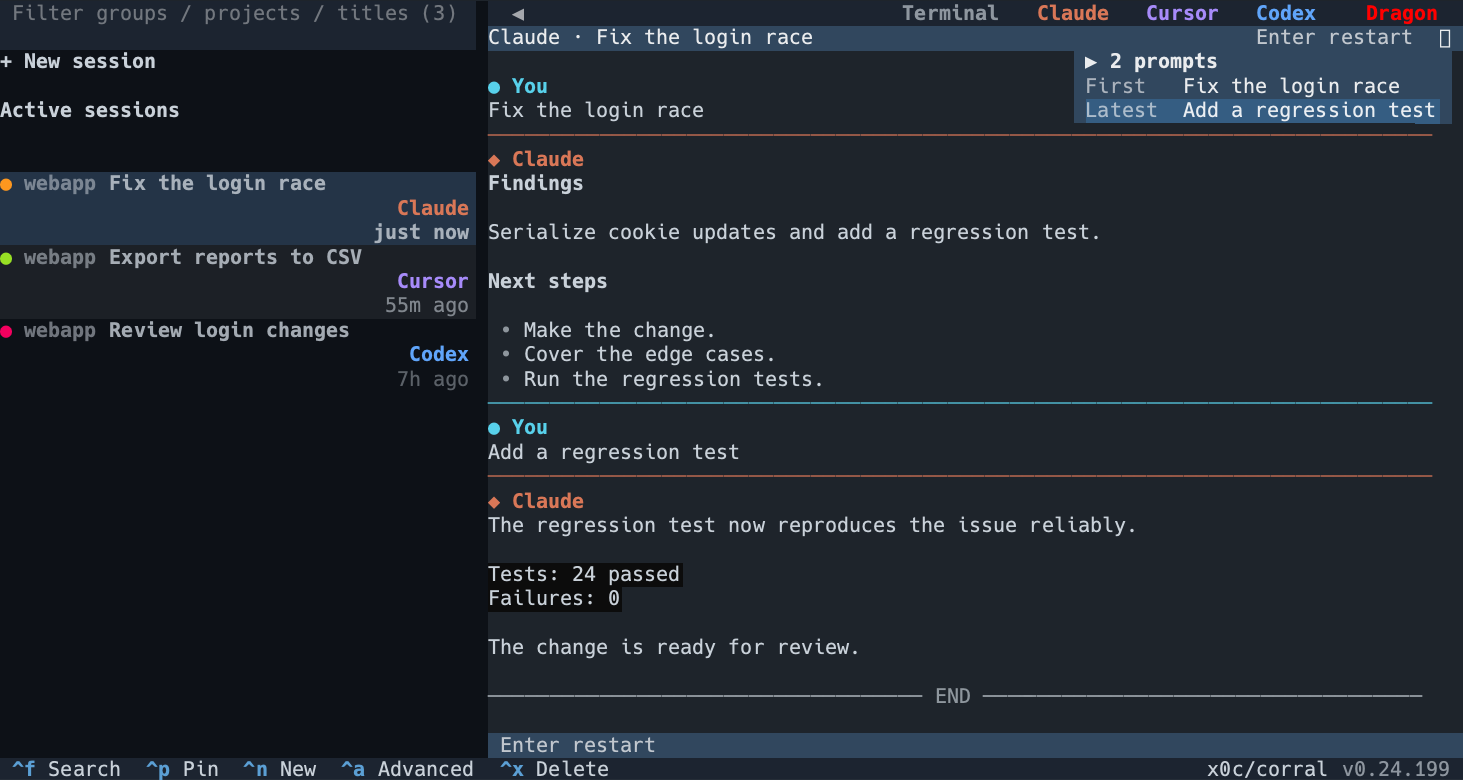
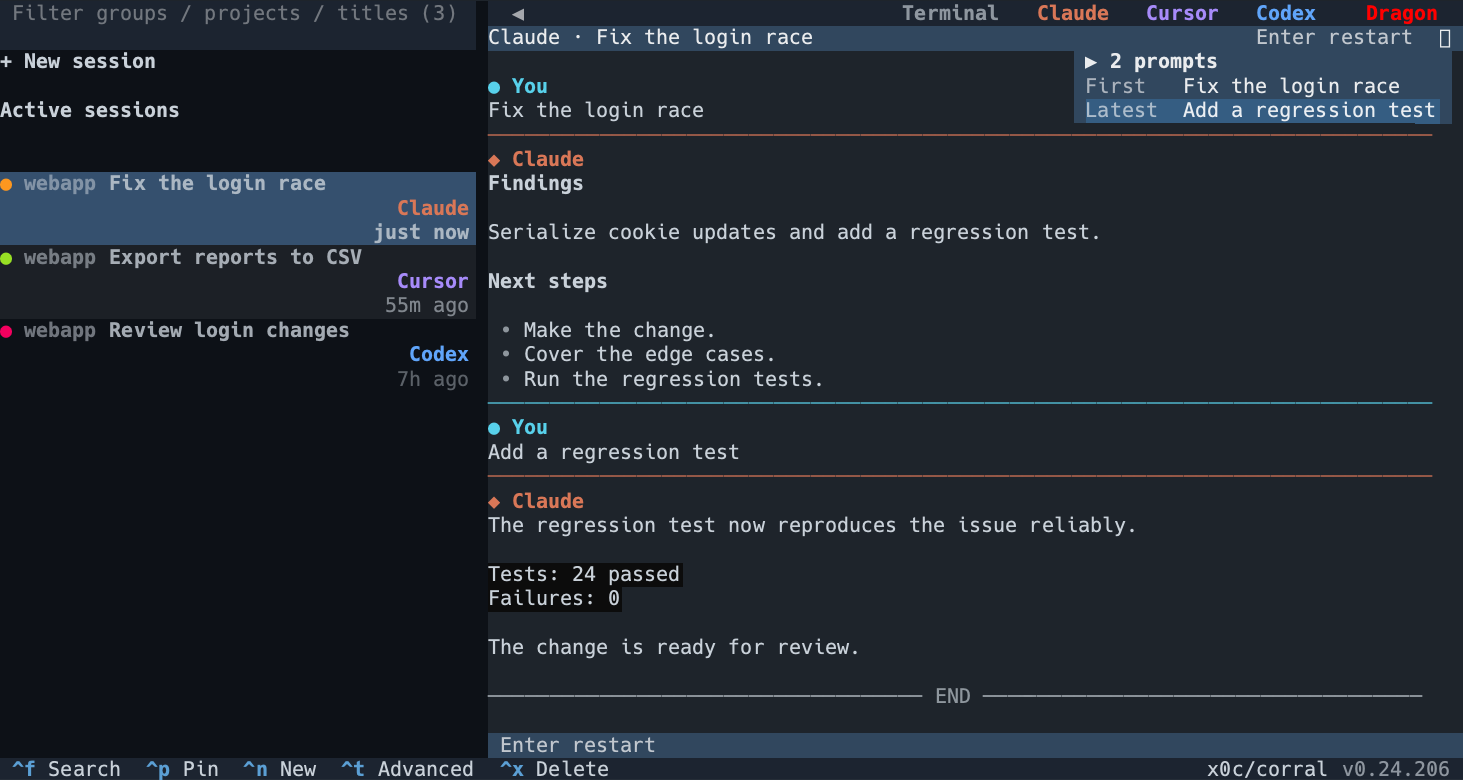
release: v0.24.206 bind advanced menu to Ctrl+T
Ctrl+A must stay beginning-of-line in hosted assistants. The advanced
menu is now Ctrl+T, shown as ^t like the other shell shortcuts.

Changed region(s): [[0.0, 0.2154, 0.3383, 0.3385], [0.9535, 0.9846, 1.0, 1.0]]

diff --git a/tests/test_ui.py b/tests/test_ui.py
@@ -925,7 +925,7 @@ class AppThemeTests(unittest.IsolatedAsyncioTestCase):
             self.assertFalse(area.can_add_pane())
 
     async def test_footer_binds_ctrl_n_not_bare_n_for_new_session(self) -> None:
-        """新建走全局 Ctrl+N；单字母 n/a/x/q 不绑。Ctrl+A/X 是全局高级操作/删除。"""
+        """新建走全局 Ctrl+N；单字母 n/a/x/q 不绑。Ctrl+T/X 是全局高级操作/删除。"""
         store, _ = _make_store()
         app = CorralApp(store, embed_ok=False)
         async with app.run_test(size=(100, 30)) as pilot:
@@ -936,7 +936,8 @@ class AppThemeTests(unittest.IsolatedAsyncioTestCase):
             self.assertNotIn("x", keys)
             self.assertNotIn("q", keys)
             self.assertIn("ctrl+n", keys)
-            self.assertIn("ctrl+a", keys)
+            self.assertIn("ctrl+t", keys)
+            self.assertNotIn("ctrl+a", keys)
             self.assertIn("ctrl+x", keys)
             actions = {b.action for b in app.screen.BINDINGS}
             self.assertIn("new_session", actions)
@@ -5689,7 +5690,7 @@ class MainScreenHostWorkerTests(unittest.IsolatedAsyncioTestCase):
                 self.assertIsNotNone(source)
                 source_key = corral.session_key(source)
 
-                await pilot.press("ctrl+a")
+                await pilot.press("ctrl+t")
                 await pilot.pause()
                 self.assertIsInstance(app.screen, RuntimePickerModal)
                 await pilot.press("down")  # claude 原生恢复 → cursor
@@ -5767,7 +5768,7 @@ class MainScreenHostWorkerTests(unittest.IsolatedAsyncioTestCase):
                 source_key = corral.session_key(source)
                 main = app.screen
                 with mock.patch.object(main, "notify") as notify:
-                    await pilot.press("ctrl+a")
+                    await pilot.press("ctrl+t")
                     await pilot.pause()
                     self.assertIsInstance(app.screen, RuntimePickerModal)
                     await pilot.press("down")
@@ -5839,7 +5840,7 @@ class MainScreenHostWorkerTests(unittest.IsolatedAsyncioTestCase):
                 self.assertIsNotNone(source)
                 source_key = corral.session_key(source)
 
-                await pilot.press("ctrl+a")
+                await pilot.press("ctrl+t")
                 await pilot.pause()
                 self.assertIsInstance(app.screen, RuntimePickerModal)
                 # 本用例只有 claude，默认即源助手；回车 = 同助手读历史后新建
@@ -5899,7 +5900,7 @@ class MainScreenHostWorkerTests(unittest.IsolatedAsyncioTestCase):
                 self.assertIsNotNone(source)
                 source_key = corral.session_key(source)
 
-                await pilot.press("ctrl+a")
+                await pilot.press("ctrl+t")
                 await pilot.pause()
                 self.assertIsInstance(app.screen, RuntimePickerModal)
                 # 默认高亮在接力项；上移两次落到「复制会话」（上面依次是重启、导出）
@@ -5939,7 +5940,7 @@ class MainScreenHostWorkerTests(unittest.IsolatedAsyncioTestCase):
         app = CorralApp(store, embed_ok=True)
         async with app.run_test(size=(120, 30)) as pilot:
             await pilot.pause(delay=0.2)
-            await pilot.press("ctrl+a")
+            await pilot.press("ctrl+t")
             await pilot.pause()
             self.assertIsInstance(app.screen, RuntimePickerModal)
             self.assertEqual(app.screen._choices[0].id, EXPORT_SESSION_CHOICE)
@@ -5988,7 +5989,7 @@ class MainScreenHostWorkerTests(unittest.IsolatedAsyncioTestCase):
                 store.mark_hosted(source_key, "corral-claude-s0")
                 await pilot.pause()
 
-                await pilot.press("ctrl+a")
+                await pilot.press("ctrl+t")
                 await pilot.pause()
                 self.assertIsInstance(app.screen, RuntimePickerModal)
                 choices = app.screen._choices
@@ -6020,7 +6021,7 @@ class MainScreenHostWorkerTests(unittest.IsolatedAsyncioTestCase):
         with mock.patch("corral.embed.host_session") as host_mock:
             async with app.run_test(size=(120, 30)) as pilot:
                 await pilot.pause(delay=0.2)
-                await pilot.press("ctrl+a")
+                await pilot.press("ctrl+t")
                 await pilot.pause()
                 self.assertIsInstance(app.screen, RuntimePickerModal)
                 choices = app.screen._choices
@@ -6089,7 +6090,7 @@ class FooterActionGatingTests(unittest.TestCase):
         # 无回列表快捷键；方法仍在，焦点已在右栏时 check 为 True 但无 binding
         self.assertTrue(screen.check_action("focus_list", ()))
         self.assertTrue(screen.check_action("toggle_sidebar", ()))
-        # Ctrl+F/P/N/A/X 全局：右栏持焦时仍可用
+        # Ctrl+F/P/N/T/X 全局：右栏持焦时仍可用
         self.assertTrue(screen.check_action("toggle_pin", ()))
         self.assertTrue(screen.check_action("search_content", ()))
         self.assertTrue(screen.check_action("new_session", ()))
@@ -7718,7 +7719,7 @@ class RestartEndedSessionTests(unittest.IsolatedAsyncioTestCase):
                 )
 
     async def test_live_pane_forwards_enter_but_ctrl_f_opens_search(self) -> None:
-        """回车照常发给助手，但 Ctrl+F 必须由 corral 打开全文搜索，Ctrl+N 打开新建。"""
+        """回车和 Ctrl+A 发给助手；Ctrl+F / Ctrl+N / Ctrl+T 由 corral 拦截。"""
         store, registry = _make_store()
         registry.build_launch_plan = lambda request: LaunchPlan(("claude",), None)
         app = CorralApp(store, embed_ok=True)
@@ -7753,6 +7754,13 @@ class RestartEndedSessionTests(unittest.IsolatedAsyncioTestCase):
 
                 with mock.patch("corral.embed.send_key") as send_key:
                     await pilot.press("ctrl+a")
+                    await pilot.pause()
+                    self.assertTrue(send_key.called)
+                    send_key.assert_called_with("corral-claude-s0", "C-a")
+                    self.assertNotIsInstance(app.screen, RuntimePickerModal)
+
+                with mock.patch("corral.embed.send_key") as send_key:
+                    await pilot.press("ctrl+t")
                     await _wait_until(lambda: isinstance(app.screen, RuntimePickerModal))
                     self.assertFalse(send_key.called)
                     await pilot.press("escape")
@@ -7974,7 +7982,7 @@ class RightPanePreviewTests(unittest.IsolatedAsyncioTestCase):
         async with app.run_test(size=(100, 30)) as pilot:
             await pilot.pause(delay=0.2)
             await pilot.press("down")
-            await pilot.press("ctrl+a")
+            await pilot.press("ctrl+t")
             await _wait_until(lambda: isinstance(app.screen, RuntimePickerModal))
             await pilot.press("down")  # claude(原生恢复) -> codex
             await pilot.press("enter")
@@ -8399,7 +8407,7 @@ class ModalTests(unittest.IsolatedAsyncioTestCase):
         async with app.run_test(size=(100, 30)) as pilot:
             await pilot.pause(delay=0.2)
             await pilot.press("down")
-            await pilot.press("ctrl+a")
+            await pilot.press("ctrl+t")
             await pilot.pause()
             self.assertIsInstance(app.screen, RuntimePickerModal)
             await pilot.press("down")  # 移到未安装的 kimi

diff --git a/src/corral/ui/main_screen.py b/src/corral/ui/main_screen.py
@@ -1,6 +1,6 @@
 """主屏：左栏会话列表 + 右栏预览/内嵌终端（corral 唯一界面）。
 
-按键语义（/ 聚焦项目搜索 / a 或 Ctrl+A 高级操作 /
+按键语义（/ 聚焦项目搜索 / Ctrl+T 高级操作 /
 q 结束会话 / x 删除会话 / c 关闭面板 / Ctrl+Shift+B 显隐侧栏 / Esc 退出）；选中非进行中会话时右栏直接
 展示完整对话预览。键盘焦点跟随明确意图：回车 / 单击会话卡打开、新建或直启托管成功后
 输入交给右栏那一格（仅限活着的实时会话），上下浏览不抢焦点；再点当前持有输入的那张
@@ -224,14 +224,17 @@ _LIST_ONLY_ACTIONS = frozenset(
 def _main_bindings() -> list[Binding]:
     """按当前语言生成底部快捷键说明。"""
     return [
-        # Ctrl+F / Ctrl+P / Ctrl+N / Ctrl+A / Ctrl+X 是壳层全局键。priority 让它们
+        # Ctrl+F / Ctrl+P / Ctrl+N / Ctrl+T / Ctrl+X 是壳层全局键。priority 让它们
         # 先于当前聚焦控件处理，运行中助手不能再截走；临时弹窗不继承主屏绑定。
+        # 不绑 Ctrl+A：那是行首，必须透传给助手。不绑 Ctrl+O：Claude 详细记录 /
+        # Codex 复制回复 / OpenCode 选模型。不绑 Ctrl+]：机主否决「不好记」，
+        # 只要 Ctrl+字母。Ctrl+T 会挡住 Claude 待办清单，是 2026-09-13 选定的代价。
         # 不绑单字母 a/x/q/c：右栏持焦时会变成打给助手的字符。结束托管走高级操作。
         # Esc 只关弹窗，不退出应用。侧栏显隐只点顶栏 ◀/▶（无回列表快捷键）。
         Binding("ctrl+f", "search_content", t("action.search"), priority=True),
         Binding("ctrl+p", "toggle_pin", t("action.toggle_pin"), priority=True),
         Binding("ctrl+n", "new_session", t("action.new"), priority=True),
-        Binding("ctrl+a", "advanced", t("action.advanced"), priority=True),
+        Binding("ctrl+t", "advanced", t("action.advanced"), priority=True),
         Binding("ctrl+x", "delete_session", t("action.delete_session"), priority=True),
         # 会话小窗展开/收起。Footer 已经很挤，这个键不展示；小窗自身可点。
         Binding("ctrl+g", "toggle_hud", t("action.toggle_hud"), show=False),
@@ -1490,7 +1493,7 @@ class MainScreen(
             if getattr(self, "_activity_board_active", False):
                 return False
         if action in ("advanced", "delete_session"):
-            # Ctrl+A / Ctrl+X：列表持焦，或右栏正对着某个会话。筛选框里让路给输入。
+            # Ctrl+T / Ctrl+X：列表持焦，或右栏正对着某个会话。筛选框里让路给输入。
             if isinstance(self.focused, Input):
                 return False
             if self._any_embed_focused():
@@ -1793,7 +1796,7 @@ class MainScreen(
 
     @work
     async def action_advanced(self) -> None:
-        """Ctrl+A 全局高级操作：列表或右栏关联会话时打开，与 `a` 同一条流程。"""
+        """Ctrl+T 全局高级操作：列表或右栏关联会话时打开。"""
         await self._run_handoff()
 
     @work

diff --git a/tests/test_embed.py b/tests/test_embed.py
@@ -894,6 +894,7 @@ class TranslateTextualKeyTests(unittest.TestCase):
         self.assertEqual(embed.translate_textual_key("ctrl+c"), ("keys", "C-c"))
         self.assertEqual(embed.translate_textual_key("ctrl+z"), ("keys", "C-z"))
         self.assertEqual(embed.translate_textual_key("ctrl+a"), ("keys", "C-a"))
+        self.assertEqual(embed.translate_textual_key("ctrl+t"), ("keys", "C-t"))
 
     def test_control_underscore_and_slash_aliases(self):
         # 多数终端 Ctrl+/ ≡ Ctrl+_（ASCII 0x1F）；tmux 不认 C-/，统一成 C-_。

diff --git a/src/corral/__init__.py b/src/corral/__init__.py
@@ -31,7 +31,7 @@ def _wire_sesskit_cache() -> None:
 
 _wire_sesskit_cache()
 
-__version__ = "0.24.205"
+__version__ = "0.24.206"
 
 _MODULE_EXPORTS = {
     "embed", "keepalive", "liveness", "titles", "updater", "split_layout", "observe", "theme", "search",

diff --git a/docs/TERMINAL_UI_KNOWLEDGE_BASE.md b/docs/TERMINAL_UI_KNOWLEDGE_BASE.md
@@ -35,7 +35,7 @@ corral 的价值是让用户从一个终端界面中继续或接力不同 Coding
 | 会话小窗 | 右栏格右上角的悬浮摘要：默认展开列出提问，收起后给"最初 + 最近"两头 | `ui/session_hud.py` 的 `SessionHud`；实时托管格与静态预览格各自一份；不是弹窗、不抢焦点 |
 | 新建会话 | 以选定项目和运行时创建空白会话 | 侧边栏“＋ 新建会话”完整选择流程，或任意焦点按 `Ctrl+N`（与 `Ctrl+F` / `Ctrl+P` 同级的全局键），或右栏顶栏点助手加格；打开弹窗时光标必须在项目筛选框，立刻可打字；单字母 `n` 不绑 |
 | 活跃会话看板 | 侧栏固定入口，对外文案是 Active sessions / 活跃会话；有成员时写成「名称 · N 个会话」。入口固定三行（高 3）：首行名称与可选黄点；第二行多于一页时画出可点的「上一页 / 下一页」（中间 `1/2` 只提示位置），循环翻页；第三行留白。只有一页时第二行也留空（禁止 1/1）。底栏在列表持焦时展示 `[` 上一页 / `]` 下一页（循环故两侧都露）。**Active sessions 的成员定义是权威口径**（2026-09-06 纠正）：本窗口托管且（等回话 / 干活 / 未读，或「刚刚」3 分钟内仍有真实活动的无信号会话）。侧栏关注圆点必须覆盖同一集合，共用 `activity_board.resolve_active_marker`——**禁止**为了对齐去砍掉看板的「刚刚」档。格子里可直接打字；观看期间成员不主动撤，只要仍被托管就钉在原格 | `activity_board.py` + 侧栏冻项；跨项目；不写水果组；超额用第二行「上一页 / 下一页」和 `[` / `]` 翻页，**禁止**依赖 Page Up / Page Down（Mac 笔记本没有这两个键，终端里 Fn+方向键常被终端滚动吃掉，且已用于右栏对话预览）；页外等待用黄点；点具体会话即离开；别的窗口自开会话不进格。**排查「Active sessions 人数和带圆点会话对不上 / 活跃会话比圆点多 / 圆点有遗漏」「蓝色圆点是啥 / 青色圆点 / 不要蓝点 / 刚还在用却是蓝点」也读本节与 §6——缺圆点时补圆点，禁止反过来缩减 Active；「刚刚」档画绿点，禁止单独画青/蓝」**。**排查「活跃会话看不到翻页 / 没有分页按钮 / Mac 没有 PageUp PageDown / 不知道怎么翻页」也读本节与 §6**。**排查「两格分屏但每格画面只占一半 / 像被压成 1/4 / 分屏里 Claude 只占约 1/3、右侧大块空白」**：较窄观看方（含本看板、控制通道默认 80 列）不得压窄共享画面，见 [内嵌实时终端知识库](EMBEDDED_TERMINAL_KNOWLEDGE_BASE.md) §6 多开窗口条 |
-| 高级操作 | 导出会话 / 复制会话 / 重启会话（结束卡住的托管进程后原地恢复）/ 对当前会话读历史后新建（含同助手另起）；原生恢复走回车 | `Ctrl+A`（全局，与 `Ctrl+F` / `Ctrl+P` / `Ctrl+N` / `Ctrl+X` 同级）→ `choose_target_runtime()` |
+| 高级操作 | 导出会话 / 复制会话 / 重启会话（结束卡住的托管进程后原地恢复）/ 对当前会话读历史后新建（含同助手另起）；原生恢复走回车 | `Ctrl+T`（全局，与 `Ctrl+F` / `Ctrl+P` / `Ctrl+N` / `Ctrl+X` 同级）→ `choose_target_runtime()` |
 | 删除会话 | 彻底抹掉当前会话窗口对应会话的本地历史，不可恢复；运行中/托管会话先结束再删 | `Ctrl+X`（全局）→ `ConfirmModal(confirm_key="x")` → `action_delete_session()`；无右栏时侧栏高亮在组卡上则删整组 |
 | 对话预览 | 右栏展示非进行中会话的完整对话 | 不是旧的“最近提问 / 最近回复”摘要，也不是 Space 全屏页 |
 | 会话关注状态 | 左栏首行最左用单个圆点提示下一步是否需要用户关注 | 等待回答黄 > 执行中绿 > 未读新结果红 > 无；本窗口托管且「刚刚」仍有活动、无待办信号的会话也画绿点（2026-09-12：禁止第四种青/蓝点）。详情头同步写出状态，不只靠颜色；不等于标题模块或机器接口的业务状态标签。**圆点必须跟上 Active sessions**（2026-09-06 纠正；此前误砍看板「刚刚」档已废止）：凡计入 Active 的托管会话都要有圆点，共用 `resolve_active_marker`；缺的是圆点，不是 Active 多算了 |
@@ -132,7 +132,7 @@ printf '\033]22;\007'          # 复位到终端默认
    - 有托管名称的会话进入内嵌实时终端；
    - 其他会话先显示详情头，再后台暖加载完整对话，完成后无缝刷新；
    - 选中“＋ 新建会话”时显示新建提示。
-5. 用户回车恢复、侧边栏/顶栏新建或 `Ctrl+A` 高级操作。能内嵌时，启动托管工作放到后台 worker，避免 tmux 阻塞冻结界面；无法内嵌时，应用退出并由外层执行启动计划。**高级操作一律读历史后新建**（含同助手另起），默认从被接力会话旁加一格分屏，不整屏换成新会话；预览格上回车才是同助手原生恢复。有右栏时键盘焦点只在某个会话窗口（见 §6 焦点归属）：单击会话卡打开并把输入交给那一格，**再点同一张卡也不得把焦点撤回列表**。多分屏下聚焦某一格时，`PaneCell` → `SplitPaneArea._handle_pane_focused` → `MainScreen._on_pane_focused` 会把侧边栏高亮切到对应会话（`SessionListView.select_session_key`），不 remount 右栏。
+5. 用户回车恢复、侧边栏/顶栏新建或 `Ctrl+T` 高级操作。能内嵌时，启动托管工作放到后台 worker，避免 tmux 阻塞冻结界面；无法内嵌时，应用退出并由外层执行启动计划。**高级操作一律读历史后新建**（含同助手另起），默认从被接力会话旁加一格分屏，不整屏换成新会话；预览格上回车才是同助手原生恢复。有右栏时键盘焦点只在某个会话窗口（见 §6 焦点归属）：单击会话卡打开并把输入交给那一格，**再点同一张卡也不得把焦点撤回列表**。多分屏下聚焦某一格时，`PaneCell` → `SplitPaneArea._handle_pane_focused` → `MainScreen._on_pane_focused` 会把侧边栏高亮切到对应会话（`SessionListView.select_session_key`），不 remount 右栏。
 6. 会话刷新发生变化时，界面原地更新内容；集合或顺序变化时才重建列表。标题缓存变化单独触发轻量刷新。
 
 ### 右栏展示状态
@@ -207,8 +207,8 @@ stateDiagram-v2
 | 右栏顶栏点助手 | 当前项目目录已知且未满四格 | `_on_runtime_pick` 在当前项目下加一格托管 | 新格进入分屏组合 |
 | 右栏顶栏点「终端」 | 当前项目目录已知且未满四格 | `_on_shell_pick` → `_embed_open_shell` 加一格交互式 shell | 不进侧栏列表；关格或 shell 退出即结束 tmux 会话 |
 | 分屏格 ✕ 关格 | 右栏至少有一格，且**不是**活跃会话看板 | `_PaneClose` → `SplitPaneArea._close_spec` | 该格退出当前分屏（托管会话继续在后台跑，可再打开）；右栏留在剩余格，不得切到刚被关掉的那条会话；不绑单字母 `c`。活跃会话看板右栏只被动展示，不提供 ✕ / 关格快捷键 |
-| `Ctrl+A` | 右栏正对着某个会话（筛选框持焦时让路） | 弹窗：导出会话 / 复制会话 / 重启卡住的托管 / 对各运行时读历史后新建 | 与 `Ctrl+F` / `Ctrl+P` / `Ctrl+N` / `Ctrl+X` 同级的全局键；不绑单字母 `a` |
-| `Ctrl+X` | 右栏正对着某个会话（筛选框持焦时让路） | 确认弹窗（确认键为 `x`）确认的瞬间摘卡；结束托管进程与抹磁盘在后台完成 | 与 `Ctrl+A` 同级的全局键；不绑单字母 `x`。无右栏且侧栏高亮在组卡上时删整组 |
+| `Ctrl+T` | 右栏正对着某个会话（筛选框持焦时让路） | 弹窗：导出会话 / 复制会话 / 重启卡住的托管 / 对各运行时读历史后新建 | 与 `Ctrl+F` / `Ctrl+P` / `Ctrl+N` / `Ctrl+X` 同级的全局键；不绑单字母 `a`。**不要绑回 `Ctrl+A`**：那是行首，必须透传给助手 |
+| `Ctrl+X` | 右栏正对着某个会话（筛选框持焦时让路） | 确认弹窗（确认键为 `x`）确认的瞬间摘卡；结束托管进程与抹磁盘在后台完成 | 与 `Ctrl+T` 同级的全局键；不绑单字母 `x`。无右栏且侧栏高亮在组卡上时删整组 |
 | `Ctrl+P` | 任意主界面焦点（含右栏实时格） | 置顶当前窗口或其所在会话组 | 框架命令面板已关闭，不再占用此键 |
 | `Ctrl+N` | 任意主界面焦点（含右栏实时格） | 打开新建会话双栏弹窗 | 与侧栏「＋ 新建」同一条流程；单字母 `n` 仍不绑 |
 | 再次点击当前持有输入的会话卡 | 右栏那一格正持有输入 | **焦点留在该会话窗口**，不撤回侧边栏 | 2026-09-12：列表不再持焦，点击不是开关 |
@@ -290,14 +290,14 @@ stateDiagram-v2
 | Textual 定时器 | 红点已读确认 | 主屏就绪轮询（约 0.1 秒） | 右侧内容一就绪即清；分屏下所有可见格一起观察；选择变化、预览失败或应用失焦时取消 |
 | Textual 后台 worker | Cursor 观察器自检 | 主屏挂载后的后台安装 | 幂等补齐用户级观察条目；任何失败都不得延迟首屏或阻断 Cursor/TUI |
 | Textual 定时器 | 终端背景复查 | `CorralApp._query_runtime_theme()`，2 秒 | iTerm2 等无主动通知的终端运行中换色时，无阻塞查询 OSC 11；支持 DEC 2031 的终端也可主动通知 |
-| 按键绑定 | 主操作 | `MainScreen.BINDINGS`、`_main_bindings()` | 全局：`Ctrl+F` 搜索、`Ctrl+P` 置顶、`Ctrl+N` 新建、`Ctrl+A` 高级操作（均 `priority=True`）；列表侧 `a`/`q`/`x`；`c` 关格、`Ctrl+\` 回列表不上 Footer。**不绑侧栏显隐**（只点顶栏 ◀/▶，2026-09-12）。`Ctrl+G` 小窗、F12 截图不上 Footer |
-| 快捷键随焦点裁剪 | Footer 与按键派发 | `MainScreen.check_action()`、`_LIST_ONLY_ACTIONS` | 有右栏时列表不再持焦，列表侧单键不再是产品路径。`Ctrl+F` / `Ctrl+P` / `Ctrl+N` / `Ctrl+A` / `Ctrl+X` 是高优先级全局键；筛选框持焦时 `Ctrl+A` / `Ctrl+X` 让路。翻页键在实时格持焦时透传给助手 |
+| 按键绑定 | 主操作 | `MainScreen.BINDINGS`、`_main_bindings()` | 全局：`Ctrl+F` 搜索、`Ctrl+P` 置顶、`Ctrl+N` 新建、`Ctrl+T` 高级操作（均 `priority=True`）；列表侧 `a`/`q`/`x`；`c` 关格、`Ctrl+\` 回列表不上 Footer。**不绑侧栏显隐**（只点顶栏 ◀/▶，2026-09-12）。`Ctrl+G` 小窗、F12 截图不上 Footer |
+| 快捷键随焦点裁剪 | Footer 与按键派发 | `MainScreen.check_action()`、`_LIST_ONLY_ACTIONS` | 有右栏时列表不再持焦，列表侧单键不再是产品路径。`Ctrl+F` / `Ctrl+P` / `Ctrl+N` / `Ctrl+T` / `Ctrl+X` 是高优先级全局键；筛选框持焦时 `Ctrl+T` / `Ctrl+X` 让路。翻页键在实时格持焦时透传给助手 |
 | 侧栏显隐 | 点按 | `MainScreen.action_toggle_sidebar()`、`ui_prefs.py`、`RuntimeTopBar` 左侧 `#sidebar-toggle` | **只点顶栏 ◀/▶，无快捷键**（2026-09-12）；`embed_ok=False` 时禁用；偏好 `~/.cache/corral/ui-prefs.json`；藏起时若焦点在筛选框须先挪到会话窗口 |
 | 自动聚焦与输入蒙版 | 右栏 | `MainScreen._can_autofocus()`、`SplitPaneArea._request_pane_focus()` / `_settle_focus_intent()` / `focus_session_key(only_live=True)`、`sync_input_mask()` | 有右栏时焦点默认在会话窗口；单击会话卡 / 托管成功把输入交给对应格。筛选框或弹窗持焦时不抢。**禁止**再把焦点交回列表 |
 | 点击会话卡 | 侧边栏 → 右栏 | `SessionListView.focus_on_click()` 有右栏时必须返回 False | 点任何会话卡都只改选中并打开，**不得**把焦点切到列表；再点当前卡也不是撤回焦点的开关 |
 | 分屏焦点同步 | 右栏 → 侧边栏 | `PaneCell._notify_pane_focused`、`MainScreen._on_pane_focused`、`SessionListView.select_session_key` | 聚焦某一分屏时侧边栏高亮切到对应会话；不得因此 remount 右栏 |
 | 关格后的剩余焦点 | 右栏 ✕ | `SplitPaneArea._close_spec` / `_remaining_focus_key`、`LayoutControllerMixin._on_pane_close`、`_rebuild_sidebar_projection` | 关格后钉死剩余焦点键并聚焦剩余会话窗口；过期 `DescendantFocus` 与已排队的选择跟随都不得把右栏切到被关会话 |
-| 按键路由 | 搜索、置顶、新建、高级操作、删除与焦点 | `MainScreen.on_key()`、`on_input_submitted()`、`action_toggle_pin()`、`action_new_session()`、`action_advanced()`、`action_delete_session()` | 点筛选框打字收窄列表；`Ctrl+F` / `Ctrl+P` / `Ctrl+N` / `Ctrl+A` / `Ctrl+X` 右栏实时格持焦时仍归 corral；筛选框持焦时 `Ctrl+A` / `Ctrl+X` 让路。筛选框 Down/Enter 把输入交回当前会话窗口，不聚焦列表。`Esc` 只关弹窗（筛选框上先清空查询），不退出应用 |
+| 按键路由 | 搜索、置顶、新建、高级操作、删除与焦点 | `MainScreen.on_key()`、`on_input_submitted()`、`action_toggle_pin()`、`action_new_session()`、`action_advanced()`、`action_delete_session()` | 点筛选框打字收窄列表；`Ctrl+F` / `Ctrl+P` / `Ctrl+N` / `Ctrl+T` / `Ctrl+X` 右栏实时格持焦时仍归 corral；筛选框持焦时 `Ctrl+T` / `Ctrl+X` 让路。`Ctrl+A` 必须透传给助手（行首）。筛选框 Down/Enter 把输入交回当前会话窗口，不聚焦列表。`Esc` 只关弹窗（筛选框上先清空查询），不退出应用 |
 | 选择事件 | 会话操作 | `MainScreen.on_list_view_selected()` | 回车针对新建项 / 会话组 / 当前会话分流；组成员只在还活着时走「展示组合」，已结束的照常重启 |
 | 已结束会话重启 | 右栏 → 启动 | `EmbedPane._is_restart_target()`、`PaneCell._restart_self()`、`MainScreen._restart_session_from_pane()` | 静态预览格与「会话已结束」格上的回车 = 重启；与侧边栏回车共用 `_open_or_exit()`；**顶栏/底栏 chrome 常驻 Enter 重启提示**（详情头同款文案会随钉底滚动滚出视野，`_PaneHeader`/`_PaneFooter` 不滚；占位格与托管中不显示） |
 | 模态流程 | 高级操作 / 新建 / 确认 | `ui/modals.py` | 接力运行时选择（`RuntimePickerModal`）、新建会话双栏选择（`NewSessionModal`）和结束确认；未安装运行时不可确认 |
@@ -335,13 +335,14 @@ stateDiagram-v2
 - **AI 易错点**【新建会话弹窗打开即聚焦筛选框】`NewSessionModal.on_mount` 必须用 `Screen.set_focus` 同步钉住 `#ns-project-filter`，打开即可打字收窄项目，不必先按 `/`。禁止再默认钉到项目列表——那是旧的「方向键快路径」，会让用户敲字敲进列表、看起来像没反应。对照：全文搜索弹窗同样打开即聚焦查询框；Telescope / fzf 一类选择器默认也是插入态。↓/Enter 从筛选框落到项目列表；列表持焦时 `/` 仍可回到筛选框（与侧边栏同手感）；筛选框持焦时 ←→ 不得跳过项目栏。筛选框必须 `select_on_focus=False`，否则 Textual 默认全选，带入侧边栏初值时第一下敲字会整段清掉；有初值时把光标放到末尾，方便接着打。回归：`test_new_session_modal_opens_with_filter_focused`、`test_new_session_modal_filters_projects`、`test_new_session_modal_initial_query_seeds_filter`。
 - **AI 易错点**【筛选状态单一来源】筛选项目只认 `NavState.project_query`。搜索框输入、列表渲染、页头数量和新建会话目录推导必须共用它；不要在列表或弹窗另存一份筛选值。有关键字时 `_update_header()` 必须同时给 `#project-search-row` / `#project-search` 贴 `-active`，并露出两行高的 `#project-search-clear`；点 × 只写 `Input.value=""`（复用 `on_input_changed`），且 `on_mouse_down`/`on_click` 要 stop+prevent_default，禁止抢输入焦点。清空钮高亮写在 `CorralApp.CSS`（组件 `DEFAULT_CSS` 选不到父级行容器）。例外且只读：全文搜索弹窗与新建会话弹窗左栏筛选都可把 `project_query` 当初始查询带进去，但自己的查询串不写回这份状态。**新建会话弹窗的 `on_input_changed` 必须以 `event.input.value` 为准、且列表已与应收结果一致时跳过重建**：挂载时 Textual 可能先派发空串 `Changed`，按滞后的 `event.value` 重建会把 `__init__` 已收窄的列表冲宽，无意义的 `clear/extend` 还会抢走筛选框焦点（打开即聚焦筛选框，重建后必须交还）。回归：`test_new_session_modal_initial_query_seeds_filter`、`test_new_session_modal_picks_project_then_runtime`、`test_new_session_modal_opens_with_filter_focused`、`test_project_search_clear_button_clears_filter`。
 - **AI 易错点**【全文搜索是另一条路，不要往筛选框里塞】侧边栏筛选框只匹配组名 / 项目名 / 路径 / 标题，**永远不搜对话正文**：它是常驻的列表收窄工具，一旦混进正文匹配，随手输个常用词就会把列表撑成一堆看不出为什么命中的会话。搜正文走 `Ctrl+F` 弹窗（`ui/search_modal.py`），结果按会话分组、显式展示命中行并高亮关键词，让用户一眼看出「为什么它出现在这」。两者共用 `store` 的会话与标题快照，但匹配逻辑分别在 `display._filter_sessions_by_query()` / `SessionListView._sidebar_rows()` 和 `search.ConversationIndex.search()`，不要合并。
-- **AI 易错点**【`push_screen_wait` 必须在 worker 里】新增任何「推弹窗并等结果」的动作时，动作方法必须挂 `@work`（见 `action_handoff` / `action_search_content`），否则 Textual 直接抛 `NoActiveWorker`。这条在单测里才会暴露，静态看代码看不出来。挂了 `@work` 之后，**可预期的业务拒绝（如 `LaunchError`：会话没有历史路径）必须在生成启动计划时 catch**：未捕获会变成 `WorkerFailed`，`_handle_exception` 整屏退出。复制会话已经 catch；接力新建的计划在 `_embed_open` 里生成，失败要 notify 后返回。不要为了消这个闪退去 `_handle_exception` 里吞 `LaunchError`，也不要在 `action_handoff` 里先建一遍计划——成功路径会把摘录做两遍。真机：2026-08-24 刚托管的 Codex 占位卡按 `a` 接力闪退。回归：`test_handoff_without_history_path_keeps_tui_alive`、`test_embed_open_launch_error_keeps_tui_alive`。
+- **AI 易错点**【`push_screen_wait` 必须在 worker 里】新增任何「推弹窗并等结果」的动作时，动作方法必须挂 `@work`（见 `action_handoff` / `action_search_content`），否则 Textual 直接抛 `NoActiveWorker`。这条在单测里才会暴露，静态看代码看不出来。挂了 `@work` 之后，**可预期的业务拒绝（如 `LaunchError`：会话没有历史路径）必须在生成启动计划时 catch**：未捕获会变成 `WorkerFailed`，`_handle_exception` 整屏退出。复制会话已经 catch；接力新建的计划在 `_embed_open` 里生成，失败要 notify 后返回。不要为了消这个闪退去 `_handle_exception` 里吞 `LaunchError`，也不要在 `action_handoff` 里先建一遍计划——成功路径会把摘录做两遍。真机：2026-08-24 刚托管的 Codex 占位卡按 Ctrl+T 接力闪退。回归：`test_handoff_without_history_path_keeps_tui_alive`、`test_embed_open_launch_error_keeps_tui_alive`。
 - **AI 易错点**【全文搜索索引在后台线程建，且要等首屏画完】`ConversationIndex.refresh()` 要解析对话历史，只能跑在 `@work(thread=True)` 里（`_warm_search_index`），并且要经 `_schedule_search_index_warm` 延后到首屏渲染之后——后台线程也吃 GIL，直接在首屏那一秒开跑会让首次出卡片慢 110～165 ms。弹窗打开时若未就绪，由弹窗自己再建一次并显示进度。`refresh()` 内部有锁做串行，两条路同时触发也不会把同一批会话解析两遍。搜索结果里的会话字段一律从调用方传入的当前列表取，索引只存正文——否则标题补全、运行中状态会停在建索引那一刻。
 - **AI 易错点**【弹窗每次打开都要增量刷索引】`FullTextSearchModal.on_mount` 不能写成「`ready` 就跳过刷新」：那样首屏预热之后新产生的会话、新追加的消息永远搜不到，corral 开着不动几小时就明显不对。正确做法是就绪时先用现有索引立刻出结果，同时照样起一次后台增量刷新（签名全命中时只要 0.5～1.2 ms，等于白捡），刷完再重跑一次查询。
 - **AI 易错点**【"回车打开谁"必须取自高亮控件本身】`_selected_key()` 从 `ListView.highlighted_child` 里那个 `SearchResultRow` 拿会话键，**不要**改成「用 `ListView.index` 去索引 `self._matches`」。后者是两份可能不同步的数据：`ListView.clear()` 是投递 Prune 消息异步移除的，重建期间 DOM 里可能还留着上一批结果而 `_matches` 已经换新，同一个下标就指向两个不同会话，用户看到高亮在 A、回车却打开 B。结果列表重建同样要 `await clear()` / `await extend()` 并用 `_results_lock` + 序号让位串行（原因同 `SessionListView.rebuild()`：请求来自 Screen 泵的防抖定时器和 App 泵的建索引完成回调两条路）。回归：`test_highlighted_row_always_matches_what_enter_would_open`、`test_concurrent_rebuilds_do_not_stack_duplicate_rows`。
 - **AI 易错点**【命中行只对要展示的那几条提取】`ConversationIndex.search()` 先用 blob 判定命中并排序，再只对前 `top` 条调 `_collect_lines`。对全部命中会话都提取命中行会把界面线程卡住（461 个会话搜单字母 305 ms → 只算前 60 条后 35 ms）。`SearchOutcome.total` 保留命中总数，状态行必须如实说明还有多少条没显示。
 - **AI 易错点**【全文搜索查询框是两行 TextArea，不是 Input】`#search-query` 用 `height: 2` 的软换行 `TextArea`（`compact`、无行号），长查询能看见第二行。Enter / ↑↓ / PageUp / PageDown / Esc 必须挂 `priority=True` 的 Binding：否则 TextArea 会先吃掉 Enter（插入换行）和方向键（在框内移光标），破坏「输入框持焦、方向键挪结果、回车打开」的约定。边框仍要 `TextArea` 与 `TextArea:focus` 两处都清掉。回归：`FullTextSearchModalTests`。
-- **AI 易错点**【Ctrl+F / Ctrl+P / Ctrl+N / Ctrl+A / Ctrl+X 是主界面全局键】**2026-09-12 裁定**：有右栏时键盘焦点只在某个会话窗口，列表不得持焦。原先必须列表持焦才生效的单字母（`a` 高级操作、`x` 删除等）全部改为全局 Ctrl 组合；`q` 结束会话和 `Esc` 退出界面不再保留快捷键（弹窗里 Esc 仍是取消）。Ctrl+F 打开全文搜索、Ctrl+P 置顶、Ctrl+N 新建、Ctrl+A 高级操作、Ctrl+X 删除当前会话窗口对应的会话，都必须以高优先级在主界面生效。筛选框持焦时 Ctrl+A / Ctrl+X 必须让路给输入。运行中的助手不得截走这五个键。不绑单字母 `a`/`x`/`q`/`n`/`c`。Textual 默认的命令面板占用 Ctrl+P 且会在底栏画出 `^p palette`，必须在应用上关掉（`ENABLE_COMMAND_PALETTE = False`）。临时弹窗不继承主界面绑定。右栏持焦时其余按键的转发规则是**黑名单**（只拦壳层键，其余放行），不要改成「只转发 Ctrl+字母」白名单，也不要动 `Ctrl+C`、方向键、翻页等其余转发；`Ctrl+/`≡`Ctrl+_` 这类漏网键见 [内嵌实时终端知识库](EMBEDDED_TERMINAL_KNOWLEDGE_BASE.md)。回归：`test_ctrl_f_opens_search_when_a_live_pane_has_focus`、`test_live_pane_forwards_enter_but_ctrl_p_pins`、`test_footer_binds_ctrl_n_not_bare_n_for_new_session`、`test_ctrl_x_deletes_from_live_pane`、`TranslateTextualKeyTests`。
+- **AI 易错点**【Ctrl+F / Ctrl+P / Ctrl+N / Ctrl+T / Ctrl+X 是主界面全局键】**2026-09-12 裁定**：有右栏时键盘焦点只在某个会话窗口，列表不得持焦。原先必须列表持焦才生效的单字母（`a` 高级操作、`x` 删除等）全部改为全局 Ctrl 组合；`q` 结束会话和 `Esc` 退出界面不再保留快捷键（弹窗里 Esc 仍是取消）。Ctrl+F 打开全文搜索、Ctrl+P 置顶、Ctrl+N 新建、Ctrl+T 高级操作、Ctrl+X 删除当前会话窗口对应的会话，都必须以高优先级在主界面生效。筛选框持焦时 Ctrl+T / Ctrl+X 必须让路给输入。运行中的助手不得截走这五个键。不绑单字母 `a`/`x`/`q`/`n`/`c`。Textual 默认的命令面板占用 Ctrl+P 且会在底栏画出 `^p palette`，必须在应用上关掉（`ENABLE_COMMAND_PALETTE = False`）。临时弹窗不继承主界面绑定。右栏持焦时其余按键的转发规则是**黑名单**（只拦壳层键，其余放行），不要改成「只转发 Ctrl+字母」白名单，也不要动 `Ctrl+C`、方向键、翻页等其余转发；`Ctrl+/`≡`Ctrl+_` 这类漏网键见 [内嵌实时终端知识库](EMBEDDED_TERMINAL_KNOWLEDGE_BASE.md)。回归：`test_ctrl_f_opens_search_when_a_live_pane_has_focus`、`test_live_pane_forwards_enter_but_ctrl_p_pins`、`test_footer_binds_ctrl_n_not_bare_n_for_new_session`、`test_ctrl_x_deletes_from_live_pane`、`TranslateTextualKeyTests`。
+- **AI 易错点**【高级操作不得抢行首】**2026-09-13 裁定**：高级操作是 `Ctrl+T`（底栏 `^t`），**不是** `Ctrl+A`。`Ctrl+A` 是行首（Claude / OpenCode / readline 皆然），右栏持焦时必须透传给助手。机主否决 `Ctrl+]`（不好记，只要 Ctrl+字母）。禁止再绑 `Ctrl+A` / `Ctrl+E` / `Ctrl+K` / `Ctrl+U` / `Ctrl+W` 这类行编辑键。禁止绑 `Ctrl+O`（Claude 详细记录、Codex 复制最新回复、OpenCode 选模型）。禁止只靠 `Ctrl+Shift+A`：包顶层关掉了 Kitty 键盘协议，很多终端里它和 `Ctrl+A` 是同一个字节。改壳层快捷键前必须先问机主，不要自行换键。Ctrl+T 会挡住 Claude 待办清单，是选定的代价。排查「Ctrl+A 打不开高级操作 / Ctrl+A 没到行首 / 右栏持焦时 Ctrl+A 被抢走 / Ctrl+T 打不开高级操作 / 高级操作快捷键冲突 / Ctrl+] 不好记」都读这条。回归：`test_live_pane_forwards_enter_but_ctrl_f_opens_search`（含 Ctrl+A 透传与 Ctrl+T 开菜单）、`test_footer_binds_ctrl_n_not_bare_n_for_new_session`。
 - **AI 易错点**【强停必须吞 KeyboardInterrupt 并同步关掉鼠标跟踪】**禁止**把 `app.run()` 的 `KeyboardInterrupt` 漏到外壳：Warp 等终端会把 Ctrl+C 打成 SIGINT（绕过界面自己的按键处理），`asyncio.run` 收尾还要等默认线程池（Python 3.14 最长 300 秒），第二次 Ctrl+C 就会打出堆栈，并且 Textual 写线程已经停了、关不掉鼠标跟踪，点击变成 `^[[<0;21;2M`。`run_app()` 必须 catch 后调用 `restore_terminal()`（直接 `os.write` 关闭序列，**禁止**再走 Textual 写线程）。**不要把 Ctrl+R 绑成全文搜索**：那是 Warp / zsh 的命令搜索，绑了会从托管助手的 readline 反搜里抢走该键；正文搜索仍是 Ctrl+F。回归：`InterruptTerminalRestoreTests`。
 - **AI 易错点**【右栏刷新线程边界】Textual 后台 worker 不得直接读写 Widget/DOM；扫描、读取对话和托管启动等阻塞工作在后台进行，结果通过 `call_from_thread()` 回到主线程。退出时 worker 必须可取消，不能用不可打断的无限等待或长 `sleep`。
 - **AI 易错点**【列表刷新策略】会话键的成员与顺序不变时，`SessionListView.rebuild()` 必须原地替换卡片数据，只刷新有变化的卡片；仅新增、删除或重排才清空重建。后台重扫、标题轮询和交互动作可能在同一帧要求重建，并发执行 `clear()` / `extend()` 会重复挂载固定 ID 的「新建会话」条目，Textual 直接抛 `DuplicateIds` 打崩整个 TUI。**串行闸门必须在 `SessionListView.rebuild()` 内部（`_rebuild_lock`），不能只放在主屏**：调用方分布在两条互不相让的消息泵上——后台重扫经 `app.call_from_thread(_rebuild_list)` 跑在 App 泵，搜索框输入经 `on_input_changed` 直接调 `rebuild()` 跑在 Screen 泵，`MainScreen._rebuild_lock` 只挡得住同泵重入。真机崩溃（2026-07-26）：连续退格清空搜索词，命中数 50→57→71 连做全量重建（单次已到 2s 量级），与后台重扫交错必崩。同一把锁顺带做请求合并——排队期间来了更新的请求且本次不带 `select_key` 时直接让位，避免每个中间筛选态都全量重建一遍。标题生成中不在侧边栏画任何加载动画，标题只在缓存轮询命中变化时原地刷新。回归：`test_list_rebuild_serialized_across_message_pumps`、`test_screen_serializes_concurrent_list_rebuilds`。
@@ -386,7 +387,7 @@ stateDiagram-v2
 - **AI 易错点**【主题报告可能跑在分屏区域挂载完成之前】启动后首轮 OSC 11 应答与 `push_screen(MainScreen)` 竞速：主界面已成为当前屏、但 `compose` 还没把 `SplitPaneArea` 挂进 DOM 的窗口期里，`CorralApp.on_terminal_background_report` → `MainScreen.update_terminal_background` 里 `query_one(SplitPaneArea)` 会抛 `NoMatches` 并中止整个应用（v0.24.143 真机崩溃：macOS Homebrew 安装后一启动就炸）。正确处理：查不到就静默返回——`self.osc_report` 已先更新，分屏区域 compose 时会拿最新值初始化，不丢信息；禁止为消掉这个窗口期改成等待或轮询重试。同理任何「应用层消息处理器直接伸进当前屏查子控件」的新代码，都必须容忍屏刚推送还没挂载完成的中间态。回归：`test_background_report_before_split_area_mounted_does_not_crash`。
 - **AI 易错点**【主题控制消息会被任意拆包】终端的 `DEC 2031` 回复可能在 `ESC`、`ESC[` 或任意后续字符处切成多次读取；解析器必须保留所有可能的消息前缀，等下一段拼完整后再交给主题处理。禁止把不完整前缀先交给通用按键解析器——后半段会被当作普通输入转发进当前托管助手，Cursor 会直接显示控制字符并可能触发整屏重绘。回归测试必须覆盖整条深浅主题回复的每一个拆分点。
 - **AI 易错点**【鼠标指针形状走 OSC 22，不是 CSS 自己画出来的】终端窗口的指针由模拟器渲染；TUI 只能发 `\x1b]22;{shape}\x07`。Textual 的 CSS `pointer:` 只决定「发哪个名字」，**裸序列在 tmux 里到不了外层终端**，必须走 `ui/pointer_shape.sequence()`（追加 `\x1bPtmux;` DCS，ESC 双写）并在进应用模式时对本 pane `tmux set -p allow-passthrough on`。禁止再直接 `driver.write("\x1b]22;…")` 绕过这层。退出必须发空形状名复位，否则手型会粘在 shell 上。真 xterm 只在 `XTERM_VERSION` 存在时改用 X11 名，不要无条件把 `pointer` 写成 `hand2`——kitty / Ghostty 不认。iTerm2 3.5 / Terminal.app 不支持 OSC 22 是已知限制，不是漏发。回归：`PointerShapeSequenceTests`、`PointerShapeUiTests`。
-- 【隐性依赖】`Footer` 展示的是 `MainScreen.BINDINGS` 的本地化 description。验证时中文环境必须看到 `a 高级操作`，英文环境必须看到 `a Advanced`；不要再手绘底部帮助行。**不得出现** `Back to list` / `返回列表`、`Toggle sidebar` / `显隐侧栏`（回列表键仍可隐藏绑定；侧栏显隐没有快捷键，只点顶栏 ◀▶）。品牌与版本号走 `CorralFooter`（`ui/footer.py`）：右端先画固定原文 `x0c/corral`（可点，打开 `https://github.com/x0c/corral`），再画 `v` + `corral.__version__`，不要另起浮层或顶栏徽章。不要恢复 Textual 命令面板或底栏 `^p palette`。底栏应露出 `^n New` / `^n 新建`，禁止再绑单字母 `n`。
+- 【隐性依赖】`Footer` 展示的是 `MainScreen.BINDINGS` 的本地化 description。验证时中文环境必须看到 `^t 高级操作`，英文环境必须看到 `^t Advanced`；不要再手绘底部帮助行。**不得出现** `Back to list` / `返回列表`、`Toggle sidebar` / `显隐侧栏`（回列表键仍可隐藏绑定；侧栏显隐没有快捷键，只点顶栏 ◀▶）。品牌与版本号走 `CorralFooter`（`ui/footer.py`）：右端先画固定原文 `x0c/corral`（可点，打开 `https://github.com/x0c/corral`），再画 `v` + `corral.__version__`，不要另起浮层或顶栏徽章。不要恢复 Textual 命令面板或底栏 `^p palette`。底栏应露出 `^n New` / `^n 新建`，禁止再绑单字母 `n`。
 - **AI 易错点**【底栏仓库名是品牌，不是快捷键、也不是亮蓝链接】**2026-09-12 裁定**：TUI 底栏右端、版本号前面必须常驻 `x0c/corral`，点一下用系统浏览器打开公开仓库。颜色只用能跟底栏背景分开的壳层字色（`$footer-foreground`），**禁止** `$primary` / `$accent` / `$text-accent` / `$footer-key-foreground` 那种亮蓝；悬停可加下划线表示能点。仓库名与 `Dragon` 一样保持英文原文，不进 `i18n`。**禁止**用 Textual 自带 `Link`：它默认可聚焦（会从侧栏抢走输入蒙版所需焦点），默认还是强调色。右端簇 `_FooterRight` 必须 `can_focus=False, can_focus_children=False`；品牌控件自身也不可聚焦，点击走 `app.open_url`。回归：`FooterVersionTests`。
 - 【隐性依赖】真实终端冒烟必须跑「`corral` 入口实际加载的包」：`python3 -m corral`、或对 **pipx / site-packages 同一解释器** 覆盖安装后再敲 `corral`。系统 `python3 -c "import corral"` 与 `corral` CLI 可能不是同一份代码（2026-07-21：源码已钉底、pipx 旧包仍顶对齐）。布局、配色、预览滚动改动后也必须重启已打开的 TUI。命令见 `AGENTS.md`「本机入口」。
 - 【隐性依赖】截图验收分两类：`docs/screenshots/capture.py` 使用虚构数据，适合提交和回归；F12 截图反映真实 TUI，可能含私密对话，只能本地诊断。夹具图灰阶的常见根因是环境 `NO_COLOR=1`（Textual Monochrome），不是 cairosvg；`capture.py` 会在创建 App 前清除 `NO_COLOR` 并去掉 Rich 假窗口铬。仍可用真机或 `SessionCard.render_line` segment 交叉确认配色。

diff --git a/AGENTS.md b/AGENTS.md
@@ -14,7 +14,7 @@
 
 > 以下文档在涉及对应领域的开发、评审或排查时先读取。领域知识库与验证细则见组件内说明。
 
-- [cli/AGENTS.md](/Users/geraltgraham/Codes/Corral/cli/AGENTS.md)：改、评审或发布 Corral CLI 工具前必读（含领域知识库、截图验收，以及**排查「GitHub 持续发单测失败邮件 / 流水线作业排队十几小时 / macOS 作业挂死」「敲原命令没进托管」「启动 Pi 出现 No project session found with id」「新开 Pi 会话切走后消失 / 标题和 prompt 历史挂到另一空 Pi 分屏 / `/resume` 看不到其它会话」「看不到历史 Pi 会话 / 只能看到最近的 Pi / 旧 Pi 会话搬家之后去哪了 / 搬家挡发版」「钉过的 Pi 不在 pinned / 不筛项目名就不在置顶区、一筛又出现」「取消置顶 Pi 分组无效 / 右下弹出 Pinned 提示但分组还在置顶区」「刚在分屏里开的两个会话自己拆开 / 变成两张独立卡」「分屏里刚开的 Cursor 短暂重复 / 组内组外各一份闪一下又没了」「分屏两格画面一模一样 / 两个会话内容相同」「分屏两格但每格画面只占一半 / 像被压成 1/4 / 分屏里会话只占约 1/3 / 右侧大块空白」「从分屏 x 掉会话却切到被关掉的那一格 / 点 ✕ 后画面变成刚关掉的会话」「活跃会话看不到翻页 / Mac 没有 PageUp PageDown」「已结束会话没有上下高光 / 预览格子不高亮 / Your prompts 背景跟高光条 / 没选中的浮窗还是蓝的」「组内组外选中背景不一致 / 独立项选中比组内淡」「Cursor 画面疯狂抽动 / 宽度抖动 / 有的会话抖有的不抖」「本机与开发机版本对不上」「助手还在跑、侧栏却显示已结束」「点开会话白屏 / 有消息却只有 Session ended / 重启 corral 就能看见对话」「打开 Codex 白屏 / 新建助手格子空白 / 怀疑助手坏了不是 corral / 绕过 shim / command codex / Missing optional dependency codex-darwin-arm64」「刚开的活跃会话切走再切回变成预览 / Ended / Press Enter to restart」「Pi 进程还在却显示 Enter restart / 按回车进去还在跑」「Cursor 会话不见了 / 刚开的会话从列表消失」「Cursor 子代理还在跑、主会话却显示已结束」「Cursor 在跑 Globbing/Running 却没有小绿点 / 执行中绿点缺失」「还能执行 pickup / 敲 corral command not found / 新名无法启动」「Ctrl+R 后卡住 / 强停打出 Python 堆栈 / 退出后鼠标一点就出现 `^[[<`」「英文会话却出中文标题 / 标题跟界面语言走」「莫名奇妙出来 cli 生成 s0 / Claude 点开没有消息预览 / 空白 Claude 我不认识 / 空壳为什么有标题 / cli 是哪个项目」「自身 CPU 占用过高 / 风扇狂转 / 两个窗口特别吃 CPU」「TUI 卡死 / 响应特别慢 / 按键极慢 / 有没有可观测性 / events.log」「Cursor 进程过多 / 活动监视器一堆 agent / 最大进程数限制是多少 / 上限改成 N 个 / 进程实际有没有超限」「ci-test 跑很久像卡住 / 发版检查跑三遍 / 不要每次都跑这么重 / 优化检查速度 / 想并行或异步加速」「README 动图水果 emoji 方框 / 分组树线方框 / demo.gif tofu」**的入口）。**有人提议做 Windows / WSL 兼容时进 `/Users/geraltgraham/Codes/Corral/cli/docs/design/WINDOWS_COMPATIBILITY_DESIGN.md`（2026-08-27 已裁定不做）。**用 Corral 导出的会话数据写周报 / 日报 / 工作总结，或排查「导出内容不够写总结」时，从这里进 `/Users/geraltgraham/Codes/Corral/cli/docs/SKILL.md` 的「拿会话数据做总结 / 周报时的边界」节。** Remote：`ssh://git@10.10.10.2:2222/Max/corral.git`
+- [cli/AGENTS.md](/Users/geraltgraham/Codes/Corral/cli/AGENTS.md)：改、评审或发布 Corral CLI 工具前必读（含领域知识库、截图验收，以及**排查「GitHub 持续发单测失败邮件 / 流水线作业排队十几小时 / macOS 作业挂死」「敲原命令没进托管」「启动 Pi 出现 No project session found with id」「新开 Pi 会话切走后消失 / 标题和 prompt 历史挂到另一空 Pi 分屏 / `/resume` 看不到其它会话」「看不到历史 Pi 会话 / 只能看到最近的 Pi / 旧 Pi 会话搬家之后去哪了 / 搬家挡发版」「钉过的 Pi 不在 pinned / 不筛项目名就不在置顶区、一筛又出现」「取消置顶 Pi 分组无效 / 右下弹出 Pinned 提示但分组还在置顶区」「刚在分屏里开的两个会话自己拆开 / 变成两张独立卡」「分屏里刚开的 Cursor 短暂重复 / 组内组外各一份闪一下又没了」「分屏两格画面一模一样 / 两个会话内容相同」「分屏两格但每格画面只占一半 / 像被压成 1/4 / 分屏里会话只占约 1/3 / 右侧大块空白」「从分屏 x 掉会话却切到被关掉的那一格 / 点 ✕ 后画面变成刚关掉的会话」「活跃会话看不到翻页 / Mac 没有 PageUp PageDown」「已结束会话没有上下高光 / 预览格子不高亮 / Your prompts 背景跟高光条 / 没选中的浮窗还是蓝的」「组内组外选中背景不一致 / 独立项选中比组内淡」「Cursor 画面疯狂抽动 / 宽度抖动 / 有的会话抖有的不抖」「本机与开发机版本对不上」「助手还在跑、侧栏却显示已结束」「点开会话白屏 / 有消息却只有 Session ended / 重启 corral 就能看见对话」「打开 Codex 白屏 / 新建助手格子空白 / 怀疑助手坏了不是 corral / 绕过 shim / command codex / Missing optional dependency codex-darwin-arm64」「刚开的活跃会话切走再切回变成预览 / Ended / Press Enter to restart」「Pi 进程还在却显示 Enter restart / 按回车进去还在跑」「Cursor 会话不见了 / 刚开的会话从列表消失」「Cursor 子代理还在跑、主会话却显示已结束」「Cursor 在跑 Globbing/Running 却没有小绿点 / 执行中绿点缺失」「还能执行 pickup / 敲 corral command not found / 新名无法启动」「Ctrl+R 后卡住 / 强停打出 Python 堆栈 / 退出后鼠标一点就出现 `^[[<`」「Ctrl+A 没到行首 / Ctrl+T 打不开高级操作 / 高级操作快捷键冲突 / Ctrl+] 不好记」「英文会话却出中文标题 / 标题跟界面语言走」「莫名奇妙出来 cli 生成 s0 / Claude 点开没有消息预览 / 空白 Claude 我不认识 / 空壳为什么有标题 / cli 是哪个项目」「自身 CPU 占用过高 / 风扇狂转 / 两个窗口特别吃 CPU」「TUI 卡死 / 响应特别慢 / 按键极慢 / 有没有可观测性 / events.log」「Cursor 进程过多 / 活动监视器一堆 agent / 最大进程数限制是多少 / 上限改成 N 个 / 进程实际有没有超限」「ci-test 跑很久像卡住 / 发版检查跑三遍 / 不要每次都跑这么重 / 优化检查速度 / 想并行或异步加速」「README 动图水果 emoji 方框 / 分组树线方框 / demo.gif tofu」**的入口）。**有人提议做 Windows / WSL 兼容时进 `/Users/geraltgraham/Codes/Corral/cli/docs/design/WINDOWS_COMPATIBILITY_DESIGN.md`（2026-08-27 已裁定不做）。**用 Corral 导出的会话数据写周报 / 日报 / 工作总结，或排查「导出内容不够写总结」时，从这里进 `/Users/geraltgraham/Codes/Corral/cli/docs/SKILL.md` 的「拿会话数据做总结 / 周报时的边界」节。** Remote：`ssh://git@10.10.10.2:2222/Max/corral.git`
 - [ios/AGENTS.md](/Users/geraltgraham/Codes/Corral/ios/AGENTS.md)：改、评审、构建或真机验收手机客户端前必读（含签名推送、钥匙串共享、禁止 resize、模拟器/真机脚本）。**用户可见改动完成后必须立刻装到 iPhone Max**，不读会只改源码让真机继续跑旧过滤/旧界面。界面视觉、两端状态色、**会话展示字号**、**气泡长按选不中 / 只能整段菜单不能滑动选字 / 无法复制消息**与**助手官方标识（禁止自绘）**见 [ios/docs/UI_DESIGN_KNOWLEDGE_BASE.md](/Users/geraltgraham/Codes/Corral/ios/docs/UI_DESIGN_KNOWLEDGE_BASE.md)。**排查「两台开发机点进去会话一模一样 / 打开会话后闪退」进 iOS 故障排查索引。** Remote：`ssh://git@10.10.10.2:2222/Max/corral-ios.git`
 - [cli/docs/REMOTE_KNOWLEDGE_BASE.md](/Users/geraltgraham/Codes/Corral/cli/docs/REMOTE_KNOWLEDGE_BASE.md)：改、评审或排查手机 ↔ 开发机远程接力协议、配对、推送密文、画面差分、**开源默认中继 / 不要把维护者服务器写进 GitHub / 别人要用自己搭中继 / 禁止捆绑共享多租户**、**审查手机互联网连接 / 中继 / 配对安全线、换网连不上 / 中继开关与默认地址、任意网络可达策略、远程服务是开关不是 start、重启后远程没了 / 开关记忆与开机自启、会话列表或打开历史极慢 / 进列表仍先转圈 / 转圈后开发机响应超时、打开大历史第一次仍像卡死 / 详情把通道堵住、Cursor 用户气泡出现整段系统上下文、Codex 详情第一句是系统说明、Pi 会话在手机上是空聊天、两台开发机点进去会话一模一样、发了消息对话不更新 / 看不到助手回复 / 新开会话发了在吗 / 刚开的会话只有自己那句 / 终端里有字聊天没有 / This session is no longer in the list / 对话在刷但选择题还卡在底上 / 两道题合成一排选项 / 手机中途发消息却是 follow up 不是 steering / 要等助手跑完才接**前**必读**（文首「开源中继硬规则」；验收必须走中继上的整表订阅+**每个助手一条详情**，禁止用 5 条摘要、单条 Codex 或本机 unittest 冒充）。个人多租户公网实例运维只在私有 agentsync 基础设施知识库，禁止写进公开门面当默认地址。**审查「中继会不会偷看 / 扫码等不等于把电脑交出去 / 合盖后别人占了公网通道」进该文「安全边界」。**
 - [cli/docs/design/MOBILE_REMOTE_DATA_PLANE_DESIGN.md](/Users/geraltgraham/Codes/Corral/cli/docs/design/MOBILE_REMOTE_DATA_PLANE_DESIGN.md)：规划、设计、评审或排查手机会话列表/历史加载慢、**进列表仍先转圈、不要堆滚动分页**、**进详情后返回没反应**、实时数据被大历史拖住、**打开大历史第一次解析整份 JSONL**、Cursor 上下文泄漏、Codex 消息缺失、**Pi 手机聊天空白**、**发了消息对话不更新 / 会话已不在列表里 / 新开会话发了在吗 / 刚开的会话只有自己那句 / 终端里有字聊天没有**、**对话在刷但选择题还卡在底上 / 两道题合成一排选项**、直连/中继切换与断线恢复前必读。不读会把压缩或超时当成完整方案，漏掉缓存分页、尾部偏移读取、控制/数据隔离、序号恢复和真实设备验收。
@@ -81,7 +81,7 @@
 > 以下文档在涉及对应领域的开发、评审或排查时先读取。
 
 - `README.md`：使用、修改、评审或扩展会话扫描、会话关注圆点、Cursor 状态观察、终端界面、标题生成、运行时适配和跨运行时接力
-- `docs/TERMINAL_UI_KNOWLEDGE_BASE.md`：开发、评审、优化或排查终端界面、侧边栏会话关注圆点/已读判定、筛选/会话全文搜索弹窗（`Ctrl+F`）/新建会话（`Ctrl+N`）、对话预览（含默认钉底滚动）、右侧多分屏顶栏、**会话标题语言 vs 界面语言（标题不是 chrome，不跟 locale）**、**中国龙横飞彩蛋（`#dragon-chip`、快照合成、CJK 定格画面、动画时长）**、分屏格数上限（`split_layout.MAX_PANES`，改这个数前必读）、分屏组合记忆、高级操作弹窗、Footer 按键、**排查「底栏 Back to list / Toggle sidebar / 返回列表 / 显隐侧栏」**（点按已有同一条路，Footer 永不画这两条）、**排查「侧栏快捷键没用 / Ctrl+Shift+B 无效 / 去掉侧栏显隐快捷键」**（没有键盘快捷键，只点顶栏 ◀/▶；禁止绑回 `Ctrl+Shift+B` 或 `Ctrl+B`）、**排查「活跃会话看板还能关格 / 看板格子有✕ / 看板不要关」**（看板右栏只被动展示，不提供 ✕ / 关格快捷键）、**排查「已结束会话没有上下高光 / 预览格子不高亮 / Your prompts 背景跟高光条 / 没选中的浮窗还是蓝的」**（格子顶底高光和 Your prompts 底色跟当前选中会话走：选中是蓝、没选中是略亮深灰（`$panel`）跟顶底条同色且保留斑马纹；排查「未选中小窗/高光条融进助手画面 / 黑夜下 Your prompts 看不见」也读；高光不是键盘焦点）、**排查「组内组外选中背景不一致 / 独立项选中比组内淡」**（侧栏选中：`block-cursor` 必须等于 `sidebar-split-cursor`，对齐组内选中色）、**排查「底栏没有品牌 / 没有 x0c/corral / 点版本号前面打开 GitHub」**（右端仓库名在版本号前，可点开公开仓；字色跟底栏背景对比即可，禁止亮蓝、禁止 Textual `Link` 抢焦点）、多语言文案、**分析 TUI 中英文缺漏 / 界面还有英文（Dragon、[image]、组名 Group Apple、底栏 x0c/corral 已裁定不译）**、运行中系统/终端深浅色跟随、截图验收；**设计或修改「键盘输入归属谁」相关行为（自动聚焦、鼠标点击语义、回列表出口、输入蒙版、快捷键随焦点裁剪）前必读 §6 焦点契约**；**排查「Ctrl+N 打不开新建 / 右栏持焦时 Ctrl+N 进了助手」「Ctrl+A 打不开高级操作 / 右栏持焦时 Ctrl+A 进了助手 / 筛选框里 Ctrl+A 被抢走」也读**；排查 SSH 下 TUI 颜色失真 / 真彩降级时也读；**排查「已安装助手在新建 / 接力选择器中显示未安装」也读**；**排查「钉过的会话不在 pinned / 不筛项目名就不在置顶区、一筛又出现」也读**（进组不得毁掉独立 pin；筛选可见成员 < 2 则解散为独立会话）；**排查「Today 分隔不准 / 昨天的会话还在今天 / 侧栏只有 Today 没有 Yesterday / 分隔线没有向上箭头 / Today 后面没有↑」也读**（未置顶按本地日历日切桶，不是滚动 24 小时；区尾标签一律 `{名字}↑`）；**排查「取消置顶分组无效 / 右下弹出 Pinned / 已置顶提示但分组还钉着」也读**（显式 unpin 整组必须清成员独立 pin，否则 promote 立刻钉回去）；**排查「点开会话白屏 / 有消息却只有 Session ended / 重启 corral 就能看见对话」也读**（本窗口还登记托管时走实时格，画面确认没了必须改回对话预览，禁止只留结束提示）；**排查「打开 Codex 白屏 / 新建助手格子空白 / 怀疑助手坏了不是 corral」也读**（先 `command <cmd>` 测真身；Codex 缺平台包见维护指南「Codex 扫描」，勿先改 embed）；**排查「刚开的活跃会话切走再切回变成预览 / Ended / Press Enter to restart」也读**（本窗口 hosted 是真源，探活超时不得降成已结束预览）；**排查「Pi 进程还在却显示 Enter restart / 按回车进去还在跑」也读**（格子走静态预览是没贴上 `keepalive_name`，回车会 attach 回原进程；根因在扫描/存活判定，不要改重启文案）；**排查「刚在分屏里开的两个会话自己拆开 / 变成两张独立卡」「分屏里刚开的 Cursor 短暂重复 / 组内组外各一份闪一下又没了」也读**（占位卡转正后组记忆必须跟上，即使右栏已切走）；**排查「从分屏 x 掉会话却切到被关掉的那一格 / 点 ✕ 后画面变成刚关掉的会话」也读**（关格不得让被关会话抢到焦点再被选择跟随打开）；**排查「两格分屏但每格画面只占一半 / 像被压成 1/4 / 分屏里会话只占约 1/3 / 右侧大块空白」也读**（较窄观看方含活跃会话看板、控制通道默认 80 列不得压窄共享画面）；**排查「Active sessions 人数和带圆点会话对不上 / 活跃会话比圆点多 / 圆点有遗漏」「蓝色圆点是啥 / 青色圆点 / 不要蓝点 / 刚还在用却是蓝点」「活跃会话看不到翻页 / 没有分页按钮 / Mac 没有 PageUp PageDown / 不知道怎么翻页」也读**（三行卡：第二行可点上一页/下一页并循环，底栏露出 `[` `]`，禁止靠 Page Up/Down）；**排查「Your prompts / 本会话提问中间省略 / 中间提问看不见 / 小窗只能看两头不能滚看全部」也读**（展开态保留全部提问，高度封顶靠滚动，禁止砍中间）；**排查「Ctrl+R 后卡住 / 强停打出 Python 堆栈 / 退出后鼠标一点就出现 `^[[<`」也读**（Warp 拦 Ctrl+R；强停必须吞中断并同步关掉鼠标跟踪，禁止把 Ctrl+R 绑成全文搜索）；**排查「莫名奇妙出来 cli 生成 s0 / Claude 点开没有消息预览 / 空白 Claude 我不认识 / 空壳为什么有标题 / cli 是哪个项目」也读**（两套残留撞号：测试空壳 + 缓存假标题；不是标题生成去调了 Claude）
+- `docs/TERMINAL_UI_KNOWLEDGE_BASE.md`：开发、评审、优化或排查终端界面、侧边栏会话关注圆点/已读判定、筛选/会话全文搜索弹窗（`Ctrl+F`）/新建会话（`Ctrl+N`）、对话预览（含默认钉底滚动）、右侧多分屏顶栏、**会话标题语言 vs 界面语言（标题不是 chrome，不跟 locale）**、**中国龙横飞彩蛋（`#dragon-chip`、快照合成、CJK 定格画面、动画时长）**、分屏格数上限（`split_layout.MAX_PANES`，改这个数前必读）、分屏组合记忆、高级操作弹窗、Footer 按键、**排查「底栏 Back to list / Toggle sidebar / 返回列表 / 显隐侧栏」**（点按已有同一条路，Footer 永不画这两条）、**排查「侧栏快捷键没用 / Ctrl+Shift+B 无效 / 去掉侧栏显隐快捷键」**（没有键盘快捷键，只点顶栏 ◀/▶；禁止绑回 `Ctrl+Shift+B` 或 `Ctrl+B`）、**排查「活跃会话看板还能关格 / 看板格子有✕ / 看板不要关」**（看板右栏只被动展示，不提供 ✕ / 关格快捷键）、**排查「已结束会话没有上下高光 / 预览格子不高亮 / Your prompts 背景跟高光条 / 没选中的浮窗还是蓝的」**（格子顶底高光和 Your prompts 底色跟当前选中会话走：选中是蓝、没选中是略亮深灰（`$panel`）跟顶底条同色且保留斑马纹；排查「未选中小窗/高光条融进助手画面 / 黑夜下 Your prompts 看不见」也读；高光不是键盘焦点）、**排查「组内组外选中背景不一致 / 独立项选中比组内淡」**（侧栏选中：`block-cursor` 必须等于 `sidebar-split-cursor`，对齐组内选中色）、**排查「底栏没有品牌 / 没有 x0c/corral / 点版本号前面打开 GitHub」**（右端仓库名在版本号前，可点开公开仓；字色跟底栏背景对比即可，禁止亮蓝、禁止 Textual `Link` 抢焦点）、多语言文案、**分析 TUI 中英文缺漏 / 界面还有英文（Dragon、[image]、组名 Group Apple、底栏 x0c/corral 已裁定不译）**、运行中系统/终端深浅色跟随、截图验收；**设计或修改「键盘输入归属谁」相关行为（自动聚焦、鼠标点击语义、回列表出口、输入蒙版、快捷键随焦点裁剪）前必读 §6 焦点契约**；**排查「Ctrl+N 打不开新建 / 右栏持焦时 Ctrl+N 进了助手」「Ctrl+T 打不开高级操作 / Ctrl+A 没到行首 / 右栏持焦时 Ctrl+A 被抢走 / 高级操作快捷键冲突 / Ctrl+] 不好记」也读**；排查 SSH 下 TUI 颜色失真 / 真彩降级时也读；**排查「已安装助手在新建 / 接力选择器中显示未安装」也读**；**排查「钉过的会话不在 pinned / 不筛项目名就不在置顶区、一筛又出现」也读**（进组不得毁掉独立 pin；筛选可见成员 < 2 则解散为独立会话）；**排查「Today 分隔不准 / 昨天的会话还在今天 / 侧栏只有 Today 没有 Yesterday / 分隔线没有向上箭头 / Today 后面没有↑」也读**（未置顶按本地日历日切桶，不是滚动 24 小时；区尾标签一律 `{名字}↑`）；**排查「取消置顶分组无效 / 右下弹出 Pinned / 已置顶提示但分组还钉着」也读**（显式 unpin 整组必须清成员独立 pin，否则 promote 立刻钉回去）；**排查「点开会话白屏 / 有消息却只有 Session ended / 重启 corral 就能看见对话」也读**（本窗口还登记托管时走实时格，画面确认没了必须改回对话预览，禁止只留结束提示）；**排查「打开 Codex 白屏 / 新建助手格子空白 / 怀疑助手坏了不是 corral」也读**（先 `command <cmd>` 测真身；Codex 缺平台包见维护指南「Codex 扫描」，勿先改 embed）；**排查「刚开的活跃会话切走再切回变成预览 / Ended / Press Enter to restart」也读**（本窗口 hosted 是真源，探活超时不得降成已结束预览）；**排查「Pi 进程还在却显示 Enter restart / 按回车进去还在跑」也读**（格子走静态预览是没贴上 `keepalive_name`，回车会 attach 回原进程；根因在扫描/存活判定，不要改重启文案）；**排查「刚在分屏里开的两个会话自己拆开 / 变成两张独立卡」「分屏里刚开的 Cursor 短暂重复 / 组内组外各一份闪一下又没了」也读**（占位卡转正后组记忆必须跟上，即使右栏已切走）；**排查「从分屏 x 掉会话却切到被关掉的那一格 / 点 ✕ 后画面变成刚关掉的会话」也读**（关格不得让被关会话抢到焦点再被选择跟随打开）；**排查「两格分屏但每格画面只占一半 / 像被压成 1/4 / 分屏里会话只占约 1/3 / 右侧大块空白」也读**（较窄观看方含活跃会话看板、控制通道默认 80 列不得压窄共享画面）；**排查「Active sessions 人数和带圆点会话对不上 / 活跃会话比圆点多 / 圆点有遗漏」「蓝色圆点是啥 / 青色圆点 / 不要蓝点 / 刚还在用却是蓝点」「活跃会话看不到翻页 / 没有分页按钮 / Mac 没有 PageUp PageDown / 不知道怎么翻页」也读**（三行卡：第二行可点上一页/下一页并循环，底栏露出 `[` `]`，禁止靠 Page Up/Down）；**排查「Your prompts / 本会话提问中间省略 / 中间提问看不见 / 小窗只能看两头不能滚看全部」也读**（展开态保留全部提问，高度封顶靠滚动，禁止砍中间）；**排查「Ctrl+R 后卡住 / 强停打出 Python 堆栈 / 退出后鼠标一点就出现 `^[[<`」也读**（Warp 拦 Ctrl+R；强停必须吞中断并同步关掉鼠标跟踪，禁止把 Ctrl+R 绑成全文搜索）；**排查「莫名奇妙出来 cli 生成 s0 / Claude 点开没有消息预览 / 空白 Claude 我不认识 / 空壳为什么有标题 / cli 是哪个项目」也读**（两套残留撞号：测试空壳 + 缓存假标题；不是标题生成去调了 Claude）
 - `docs/EMBEDDED_TERMINAL_KNOWLEDGE_BASE.md`：内嵌实时终端、右栏托管画面（最多四格；调整格数上限时必读，含通道池与最小托管宽度的连带约束）、控制通道池、抓帧与按键转发、焦点边界/结束会话、连接中卡死；排查或修改**内嵌助手深浅色主题识别错误**（外层终端背景色探测与注入）也从这里进；**排查「分屏两格画面一模一样 / 两个会话内容相同」也读**（同一 `keepalive_name` 开了两格内嵌终端）；**排查「分屏两格但每格画面只占一半 / 像被压成 1/4 / 分屏里会话只占约 1/3 / 右侧大块空白」也读**（另一扇窗口的活跃会话或更多格、或控制通道默认 80 列；较窄观看方不许压窄，不是单窗口把宽度除了两次）；**排查「分屏里 Claude 只占约 1/3 / 右侧大块空白」也读**（同一条：`window-size manual` + 最宽观看方说了算）；**排查「Cursor 画面疯狂抽动 / 宽度抖动 / 有的会话抖有的不抖」也读**（先看是不是两扇窗口或控制通道默认 80 列在改同一条会话的宽度；较窄观看方不许压窄。Cursor 长对话整屏重画是另一条、已验证不要给抓帧加中间态过滤）
 - `docs/SESSION_SCANNING_KNOWLEDGE_BASE.md`：开发、评审、优化或排查会话扫描、关注状态证据、Cursor 状态观察、对话预览数据、判活、扫描性能和各助手历史格式；**改 SessKit 接线 / `sesskit_bridge` / 是否打开 `include_missing_cwd`、或验收「预览有没有系统垃圾 / 有没有漏读」时必读**（§1 桥接注、§2.3、§6 前几条、§7.2）；**改 Cursor 列表级 `scan_signature` / `SessionStore.refresh` 轻量合并、或排查「侧栏删了变空 / 乐观删除后列表不回来」「列表签名与对话缓存是否都带 WAL」时必读**；**改 `SessionStore` 单测却被本机托管窗格污染时也读**（须 mock `list_managed_hosts` 或 `CORRAL_ISOLATE_MANAGED_HOSTS=1`）；**排查「测试跑完真实 TUI 多出 cli 生成 s0 / 点开没有消息 / 空壳却有生成s0」也读**（反向污染：测试托管被正在用的界面认领；标题是缓存按编号贴上去的，不是从空对话生成）；**排查「助手还在跑、侧栏却显示已结束 / 点进去变成历史预览」、尤其 OpenCode 带初始提问或 Pi 接力提问被误判成非交互时也读**（`--prompt` 后的说明词不当命令行，见该文 §6）；**排查「Pi 进程还在却显示 Enter restart / 按回车进去还在跑」也读**（无 pid 仍要按托管名贴 `keepalive_name`，claim 对不上 header 时用 sessionFile；不要拆重启提示或用 cwd 猜身份）；**排查「Cursor 会话不见了 / 刚开的会话从列表消失」「分屏里刚开的 Cursor 短暂重复 / 闪一下双份」也读**（只扫 CLI 正式历史，对话备份不进列表；误删正式目录后侧栏立刻没了；偶发自愈双份先看界面占位转正，长期双份才查判活）；**排查「Cursor 子代理还在跑、主会话却显示已结束」也读**（子代理不得进列表，但 live 必须记到父会话）；**排查「Cursor 在跑 Globbing/Running 却没有小绿点 / 执行中绿点缺失」也读**（中间助手正文不得把本轮执行中冲掉；工具活动须从历史恢复 working）；**排查「新开 Pi 会话切走后消失 / 标题和 Your prompts 挂到另一个空 Pi 分屏 / Pi 原生 `/resume` 看不到其它会话 / subagent 抢走主 pane」必读身份设计；扫描知识库 §2.2.1 只讲列表怎么消费 claim，禁止在扫描里继续修补已废弃的每会话小房间**；排查「只能看到最近的 Pi / 钉过的旧 Pi 从列表消失」也读（旧隔离目录占满 `limit`、置顶/组成员须经 `keep_ids` 豁免，以及 Pi v1 无 `parentId`）；**排查「分屏两格画面一模一样」也读**（`annotate` 把同一 pane 贴给两条会话）
 - `docs/design/PI_SESSION_IDENTITY_EXTENSION_DESIGN.md`：设计、开发、评审或排查 Pi 会话身份插件、pane 会话错绑、插件自动安装与协议升级、协作式所有权锁、旧 `corral-*`/`pickup-*` 隔离历史迁移前**必读**。不读会继续沿用已废弃的 `--session-dir` 小房间、让 subagent 抢主 pane、破坏 Pi 原生 `/resume`，或在身份不确定时误绑会话。
@@ -167,7 +167,7 @@ env -u TEXTUAL_DISABLE_KITTY_KEY python3 scripts/ci-test.py
 
 涉及界面时还要运行一次真实终端冒烟。标题后台生成会调用本机 agent CLI、消耗对应账号额度；只验证界面时，在临时目录把 `claude`、`codex` 指向本机 `true`，放到 `PATH` 最前面，再启动 `python3 -m corral --limit 5`（或已安装的 `corral --limit 5`），确认：
 
-- 底部 Textual `Footer` 显示 `^n New` / `^n 新建`，以及列表持焦时的 `a Advanced` / `a 高级操作` 与 `^a Advanced` / `^a 高级操作`（右栏对着某个会话时仍保留 `^a`，筛选框里不抢 `Ctrl+A`）。**不得出现** `Back to list` / `返回列表`、`Toggle sidebar` / `显隐侧栏`（侧栏显隐没有快捷键，只点顶栏 ◀/▶）。右端常驻 `x0c/corral` 再跟版本号；点仓库名用系统浏览器打开公开仓库。
+- 底部 Textual `Footer` 显示 `^n New` / `^n 新建`，以及 `^t Advanced` / `^t 高级操作`（右栏对着某个会话时仍保留，筛选框里不抢该键）。**不得出现** `Back to list` / `返回列表`、`Toggle sidebar` / `显隐侧栏`（侧栏显隐没有快捷键，只点顶栏 ◀/▶）。右端常驻 `x0c/corral` 再跟版本号；点仓库名用系统浏览器打开公开仓库。
 - **按键无响应时先查焦点**：启动时若选中的是别处托管的实时会话，右栏实时格会持有输入焦点，列表侧动作会从 Footer 收起（**不再**改画成「`Ctrl+\` 返回列表」）——此时 `a`/`q` 等会被转发进助手的真实输入行（可能污染正在跑的会话，务必避免盲发鼠标序列）。先按 `Ctrl+\` 或再点当前那张会话卡，把焦点切回侧栏再操作（真机冒烟踩坑：2026-08-17）。
 - 高级操作弹窗（`ui/modals.py` 的 `choose_target_runtime`）第一项是导出会话、第二项是复制会话、第三项是重启会话（结束卡住的托管进程后按原会话原地恢复，上下文保留；仅对 corral 正托管且非占位的会话可用，其余置灰），其后动态列出注册表中的运行时。
 - 默认选中第一个已安装的其他运行时。

diff --git a/docs/EMBEDDED_TERMINAL_KNOWLEDGE_BASE.md b/docs/EMBEDDED_TERMINAL_KNOWLEDGE_BASE.md
@@ -100,7 +100,7 @@ stateDiagram-v2
 ### 输入与滚动分流
 
 - 普通字符经 `send_literal()` 原样发送；特殊键经 `translate_textual_key()` 转成 tmux 键名后由 `send_key()` 发送。仅在右栏持有键盘焦点时转发。
-- **输入转发是黑名单不是白名单**：右栏持焦时，corral **只拦截壳层键**（`Ctrl+\` 回列表、有选区时的 `Ctrl+C` 复制、主界面高优先级的 `Ctrl+F` 全文搜索 / `Ctrl+P` 置顶 / `Ctrl+N` 新建 / `Ctrl+A` 高级操作等），其余按键一律尽量译成 tmux 键名后放行；译不出但仍有 `event.character`（含 `Ctrl+_` 的 `\x1f` 等控制字节）时走 `send_literal` 兜底。禁止再写成「只转发 Ctrl+字母」——那会让 `Ctrl+/`（多数终端 ≡ `Ctrl+_`，Claude Code 撤销输入）等静默丢失。**不要拦截 `Ctrl+Shift+B` / `Ctrl+B`**：侧栏显隐没有快捷键，只点顶栏 ◀/▶。回归：`TranslateTextualKeyTests`。
+- **输入转发是黑名单不是白名单**：右栏持焦时，corral **只拦截壳层键**（`Ctrl+\` 回列表、有选区时的 `Ctrl+C` 复制、主界面高优先级的 `Ctrl+F` 全文搜索 / `Ctrl+P` 置顶 / `Ctrl+N` 新建 / `Ctrl+T` 高级操作等），其余按键一律尽量译成 tmux 键名后放行；译不出但仍有 `event.character`（含 `Ctrl+_` 的 `\x1f` 等控制字节）时走 `send_literal` 兜底。禁止再写成「只转发 Ctrl+字母」——那会让 `Ctrl+/`（多数终端 ≡ `Ctrl+_`，Claude Code 撤销输入）等静默丢失。**不要拦截 `Ctrl+A`**（行首，必须交给助手）。**不要拦截 `Ctrl+Shift+B` / `Ctrl+B`**：侧栏显隐没有快捷键，只点顶栏 ◀/▶。回归：`TranslateTextualKeyTests`。
 - `Ctrl+C` 有选中文本时复制；没有选区时发送给助手中断运行，不能让终端界面自身退出。
 - **这一格没有活着的助手时，回车不转发、改为重启该会话**（`_is_restart_target()`：静态对话预览格与「会话已结束」格）。托管首帧尚未到达那种回退态**不算**——那条会话活着，回车必须原样发给助手。重启动作本身由界面层执行，见 [终端界面知识库](TERMINAL_UI_KNOWLEDGE_BASE.md) §6「已结束会话必须永远留着重启入口」。
 - 粘贴走 `set-buffer` + `paste-buffer -p`，保留 bracketed paste 语义。
@@ -212,7 +212,7 @@ stateDiagram-v2
 
 ## §6 核心业务规则与隐性约束
 
-- **AI 易错点**【输入转发是黑名单】**右栏持焦时只拦壳层快捷键，其余一律放行**。`translate_textual_key` 必须覆盖 `Ctrl+_` / `Ctrl+/`（→ `C-_`）、带修饰方向键、`Alt+字母` 等；译不出时 EmbedPane 还要用 `event.character`（含非打印控制字节）`send_literal` 兜底。禁止退回「只转发 `Ctrl+字母`」白名单——真机事故：内嵌 Claude Code 里 `Ctrl+/` 撤销输入无效。壳层键清单：`Ctrl+\`、有选区的 `Ctrl+C`、主界面 `Ctrl+F` / `Ctrl+P` / `Ctrl+N` / `Ctrl+A`（priority）。**不要拦截 `Ctrl+Shift+B` / `Ctrl+B`**（侧栏显隐没有快捷键）。回归：`TranslateTextualKeyTests`。
+- **AI 易错点**【输入转发是黑名单】**右栏持焦时只拦壳层快捷键，其余一律放行**。`translate_textual_key` 必须覆盖 `Ctrl+_` / `Ctrl+/`（→ `C-_`）、带修饰方向键、`Alt+字母` 等；译不出时 EmbedPane 还要用 `event.character`（含非打印控制字节）`send_literal` 兜底。禁止退回「只转发 `Ctrl+字母`」白名单——真机事故：内嵌 Claude Code 里 `Ctrl+/` 撤销输入无效。壳层键清单：`Ctrl+\`、有选区的 `Ctrl+C`、主界面 `Ctrl+F` / `Ctrl+P` / `Ctrl+N` / `Ctrl+T`（priority）。**不要拦截 `Ctrl+A`**（行首）。**不要拦截 `Ctrl+Shift+B` / `Ctrl+B`**（侧栏显隐没有快捷键）。回归：`TranslateTextualKeyTests`。
 - **AI 易错点**【禁止】用 tmux attach 来实现右栏显示 -> 必须以 `capture-pane` 抓画面、以输入转发操作原 pane（原因：attach 会接管终端，破坏终端界面左右分栏与多会话切换）。
 - **AI 易错点**【隐性依赖】内嵌实时终端与会话保活必须共用专用 socket 和 `corral-*` / `sc-*` 命名空间，否则已托管会话无法被正确接回、标注或回收。
 - **AI 易错点**【禁止】把「运行中(其他窗口)」的会话当成可以直接打开的运行中会话 -> 不得弹确认框，也不得针对同一份历史另起恢复进程（2026-08-08 裁定，原因：那不是接管，而是对同一份历史另起一个恢复进程；原窗口那个还在跑，右栏冒出来的新界面看着就像"会话已中断"，两个进程还会互相覆盖历史。旧版"打开前必须确认"的表述已废止）。右栏对这类会话只能给静态预览 + 明示原因，等待原窗口结束后才可正常恢复；不要试图去"抓"它的画面——它根本不在任何 tmux 里。

diff --git a/README.md b/README.md
@@ -70,7 +70,7 @@ corral claude
 
 Select two to four sessions with `Space`, then press `Enter` to open them side by side. Closing a pane hides that view; it does not stop a hosted agent.
 
-To continue elsewhere, open a session, press `Ctrl+A`, and choose an assistant. After Claude finishes an implementation, you can hand that conversation to Codex for review. The source session stays intact; the receiving assistant reads the history it needs. Press `Enter` instead when you want the original assistant's native resume.
+To continue elsewhere, open a session, press `Ctrl+T`, and choose an assistant. After Claude finishes an implementation, you can hand that conversation to Codex for review. The source session stays intact; the receiving assistant reads the history it needs. Press `Enter` instead when you want the original assistant's native resume.
 
 Press `Ctrl+\` to return keyboard control to the sidebar. Quitting Corral leaves hosted agents running.
 
@@ -85,7 +85,7 @@ Corral launches supported assistants with their automatic-approval modes enabled
 | `Enter` | Resume or enter the selected session |
 | `Ctrl+N` | Start a new session |
 | `Space`, then `Enter` | Select two to four sessions and split the view |
-| `Ctrl+A` | Export, copy, or hand off a session |
+| `Ctrl+T` | Export, copy, or hand off a session |
 | `Ctrl+\` | Return input to the sidebar |
 | `Esc` | Close the current dialog or quit |
 
